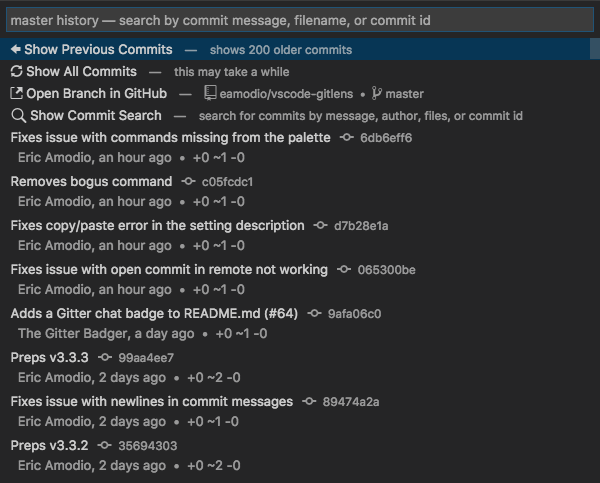
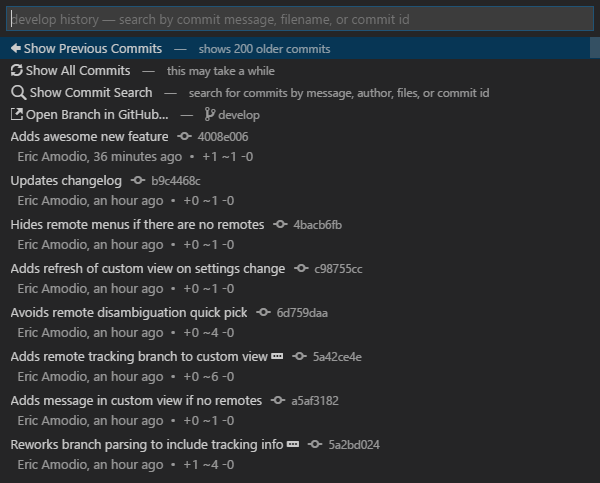
Updates images

Changed region(s): [[0.0, 0.0, 0.99, 0.9938], [0.99, 0.0932, 1.0, 0.1242]]

diff --git a/README.md b/README.md
@@ -10,7 +10,7 @@ GitLens **supercharges** the built-in Visual Studio Code Git capabilities. It he
 GitLens provides an unobtrusive blame annotation at the end of the current line, a status bar item showing the commit information (author and date, by default) of the current line, code lens showing the most recent commit and # of authors of the file and/or code block, and many commands for exploring commits and histories, comparing and navigating revisions, stash access, repository status, and more. GitLens is also [highly customizable](#extension-settings) to meet your specific needs — find code lens intrusive or the current line blame annotation distracting — no problem, it is easy to [turn them off or change how they behave](#extension-settings).
 
 ### Preview — featuring blame annotations, code lens, status bar details, quick pick menus for navigation and exploration, compare with previous, and more
-![GitLens preview](https://raw.githubusercontent.com/eamodio/vscode-gitlens/master/images/gitlens-preview.gif)
+![GitLens preview](https://raw.githubusercontent.com/eamodio/vscode-gitlens/develop/images/gitlens-preview.gif)
 
 ## Features
 
@@ -18,16 +18,16 @@ GitLens provides an unobtrusive blame annotation at the end of the current line,
 
 - Adds an unobtrusive, highly [customizable](#line-blame-annotation-settings) and [themeable](#theme-settings), **Git blame annotation** to the end of the current line ([optional](#line-blame-annotation-settings), on by default)
 
-  ![Line Blame Annotation](https://raw.githubusercontent.com/eamodio/vscode-gitlens/master/images/screenshot-line-blame-annotation.png)
+  ![Line Blame Annotation](https://raw.githubusercontent.com/eamodio/vscode-gitlens/develop/images/screenshot-line-blame-annotation.png)
   - Contains the author, date, and message of the line's most recent commit, by [default](#line-blame-annotation-settings)
   - Adds a `details` hover annotation to the current line annotation, which provides more commit details ([optional](#line-blame-annotation-settings), on by default)
   - Adds a `changes` (diff) hover annotation to the current line annotation, which provides **instant** access to the line's previous version ([optional](#line-blame-annotation-settings), on by default)
 
-    ![Line Blame Annotations](https://raw.githubusercontent.com/eamodio/vscode-gitlens/master/images/screenshot-line-blame-annotations.png)
+    ![Line Blame Annotations](https://raw.githubusercontent.com/eamodio/vscode-gitlens/develop/images/screenshot-line-blame-annotations.png)
 
 - Adds on-demand, beautiful, highly [customizable](#file-blame-annotation-settings) and [themeable](#theme-settings), **Git blame annotations** of the whole file
 
-  ![File Blame Annotation](https://raw.githubusercontent.com/eamodio/vscode-gitlens/master/images/screenshot-file-blame-annotations.png)
+  ![File Blame Annotation](https://raw.githubusercontent.com/eamodio/vscode-gitlens/develop/images/screenshot-file-blame-annotations.png)
   - Choose between `gutter` (default) and `hover` [annotation styles](#file-blame-annotation-settings)
   - Contains the commit message and date, by [default](#file-blame-annotation-settings)
   - Adds a `details` hover annotation to the line's annotation, which provides more commit details ([optional](#file-blame-annotation-settings), on by default)
@@ -37,7 +37,7 @@ GitLens provides an unobtrusive blame annotation at the end of the current line,
 
 - Adds [customizable](#status-bar-settings) **blame information** about the current line to the **status bar**  ([optional](#status-bar-settings), on by default)
 
-  ![Status Bar Blame](https://raw.githubusercontent.com/eamodio/vscode-gitlens/master/images/screenshot-status-bar.png)
+  ![Status Bar Blame](https://raw.githubusercontent.com/eamodio/vscode-gitlens/develop/images/screenshot-status-bar.png)
   - Contains the commit author and date, by [default](#status-bar-settings)
   - Clicking the status bar item will, by [default](#status-bar-settings), show a **commit details quick pick menu** with commands for comparing, navigating and exploring commits, and more
   - Provides [customizable](#status-bar-settings) click behavior — choose between one of the following
@@ -70,7 +70,7 @@ GitLens provides an unobtrusive blame annotation at the end of the current line,
 
 - Adds **code lens** to the top of the file and on code blocks ([optional](#code-lens-settings), on by default)
 
-  ![Git Code Lens](https://raw.githubusercontent.com/eamodio/vscode-gitlens/master/images/screenshot-code-lens.png)
+  ![Git Code Lens](https://raw.githubusercontent.com/eamodio/vscode-gitlens/develop/images/screenshot-code-lens.png)
   - **Recent Change** — author and date of the most recent commit for the file or code block
     - Clicking the code lens will, by [default](#code-lens-settings), show a **commit file details quick pick menu** with commands for comparing, navigating and exploring commits, and more
   - **Authors** — number of authors of the file or code block and the most prominent author (if there is more than one)
@@ -115,7 +115,7 @@ GitLens provides an unobtrusive blame annotation at the end of the current line,
 
   - `Repository View` - provides a full repository explorer
 
-    ![GitLens Repository view](https://raw.githubusercontent.com/eamodio/vscode-gitlens/master/images/screenshot-git-custom-view-repository.png)
+    ![GitLens Repository view](https://raw.githubusercontent.com/eamodio/vscode-gitlens/develop/images/screenshot-git-custom-view-repository.png)
 
     - `Repository Status` node — provides the status of the repository
       - Provides the name of the current branch, its upstream tracking branch (if available), and its upstream status (if available)
@@ -153,7 +153,7 @@ GitLens provides an unobtrusive blame annotation at the end of the current line,
 
   - `History View` - provides the revision history of the active file
 
-    ![GitLens History view](https://raw.githubusercontent.com/eamodio/vscode-gitlens/master/images/screenshot-git-custom-view-history.png)
+    ![GitLens History view](https://raw.githubusercontent.com/eamodio/vscode-gitlens/develop/images/screenshot-git-custom-view-history.png)
 
     - Automatically updates to track the active editor
     - Provides a context menu with `Open File`, `Open File in Remote`, and `Refresh` commands
@@ -173,7 +173,7 @@ GitLens provides an unobtrusive blame annotation at the end of the current line,
 
 - Adds a `Show Current Branch History` command (`gitlens.showQuickRepoHistory`) with a shortcut of `shift+alt+h` to show a paged **branch history quick pick menu** of the current branch for exploring its commit history
 
-  ![Branch History Quick Pick Menu](https://raw.githubusercontent.com/eamodio/vscode-gitlens/master/images/screenshot-branch-history.png)
+  ![Branch History Quick Pick Menu](https://raw.githubusercontent.com/eamodio/vscode-gitlens/develop/images/screenshot-branch-history.png)
 
   - Provides entries to `Show Commit Search` and `Open Branch in <remote-service>` when available
   - Navigate back to the previous quick pick menu via `alt+left arrow`, if available
@@ -184,7 +184,7 @@ GitLens provides an unobtrusive blame annotation at the end of the current line,
 
 - Adds a `Show File History` command (`gitlens.showQuickFileHistory`) to show a paged **file history quick pick menu** of the active file for exploring its commit history
 
-  ![File History Quick Pick Menu](https://raw.githubusercontent.com/eamodio/vscode-gitlens/master/images/screenshot-file-history.png)
+  ![File History Quick Pick Menu](https://raw.githubusercontent.com/eamodio/vscode-gitlens/develop/images/screenshot-file-history.png)
 
   - Provides entries to `Show Branch History` and `Open File in <remote-service>` when available
   - Navigate back to the previous quick pick menu via `alt+left arrow`, if available
@@ -192,7 +192,7 @@ GitLens provides an unobtrusive blame annotation at the end of the current line,
 
 - Adds a `Show Commit Details` command (`gitlens.showQuickCommitDetails`) to show a **commit details quick pick menu** of the most recent commit of the active file
 
-  ![Commit Details Quick Pick Menu](https://raw.githubusercontent.com/eamodio/vscode-gitlens/master/images/screenshot-commit-details.png)
+  ![Commit Details Quick Pick Menu](https://raw.githubusercontent.com/eamodio/vscode-gitlens/develop/images/screenshot-commit-details.png)
 
   - Quickly see the set of files changed in the commit, complete with status indicators for adds, changes, renames, and deletes
   - Provides entries to `Copy to Clipboard`, `Directory Compare`, `Open Changed Files`, `Open File in <remote-service>` when available, and more
@@ -202,7 +202,7 @@ GitLens provides an unobtrusive blame annotation at the end of the current line,
 
 - Adds a `Show Commit File Details` command (`gitlens.showQuickCommitFileDetails`) with a shortcut of `alt+c` to show a **file commit details quick pick menu** of the most recent commit of the active file
 
-  ![Commit File Details Quick Pick Menu](https://raw.githubusercontent.com/eamodio/vscode-gitlens/master/images/screenshot-commit-file-details.png)
+  ![Commit File Details Quick Pick Menu](https://raw.githubusercontent.com/eamodio/vscode-gitlens/develop/images/screenshot-commit-file-details.png)
 
   - Provides entries to `Show Commit Details`, `Show File History`, `Compare File with...`, `Copy to Clipboard`, `Open File`, `Open File in <remote-service>` when available, and more
   - Navigate back to the previous quick pick menu via `alt+left arrow`, if available
@@ -210,7 +210,7 @@ GitLens provides an unobtrusive blame annotation at the end of the current line,
 
 - Adds a `Show Repository Status` command (`gitlens.showQuickRepoStatus`) with a shortcut of `alt+s` to show a **repository status quick pick menu** for visualizing the current repository status
 
-  ![Repository Status Quick Pick Menu](https://raw.githubusercontent.com/eamodio/vscode-gitlens/master/images/screenshot-repo-status.png)
+  ![Repository Status Quick Pick Menu](https://raw.githubusercontent.com/eamodio/vscode-gitlens/develop/images/screenshot-repo-status.png)
 
   - Quickly see upstream status (if an Git upstream is configured) — complete with ahead and behind information
     - If you are ahead of the upstream, an entry will be shown with the number of commits ahead. Choosing it will show a limited **branch history quick pick menu** containing just the commits ahead of the upstream
@@ -222,14 +222,14 @@ GitLens provides an unobtrusive blame annotation at the end of the current line,
 
 - Adds a `Show Stashed Changes` command (`gitlens.showQuickStashList`) to show a **stashed changes quick pick menu** for exploring your repository stash history
 
-  ![Stashed Changes Quick Pick Menu](https://raw.githubusercontent.com/eamodio/vscode-gitlens/master/images/screenshot-stash-list.png)
+  ![Stashed Changes Quick Pick Menu](https://raw.githubusercontent.com/eamodio/vscode-gitlens/develop/images/screenshot-stash-list.png)
 
   - Provides entries to `Stash Changes`
   - Navigate back to the previous quick pick menu via `alt+left arrow`, if available
 
   - Choosing a stash entry shows a **stash details quick pick menu** which is very similar to the **commit details quick pick menu** above
 
-    ![Stash Details Quick Pick Menu](https://raw.githubusercontent.com/eamodio/vscode-gitlens/master/images/screenshot-stash-details.png)
+    ![Stash Details Quick Pick Menu](https://raw.githubusercontent.com/eamodio/vscode-gitlens/develop/images/screenshot-stash-details.png)
 
     - Quickly see the set of files changed in the stash, complete with status indicators for adds, changes, renames, and deletes
     - Provides entries to `Copy Message to Clipboard`, `Directory Compare`, and `Open Changed Files`

diff --git a/CHANGELOG.md b/CHANGELOG.md
@@ -10,7 +10,7 @@ The format is based on [Keep a Changelog](http://keepachangelog.com/) and this p
 
   - `Repository View` - provides a full repository explorer
 
-    ![GitLens Repository view](https://raw.githubusercontent.com/eamodio/vscode-gitlens/master/images/screenshot-git-custom-view-repository.png)
+    ![GitLens Repository view](https://raw.githubusercontent.com/eamodio/vscode-gitlens/develop/images/screenshot-git-custom-view-repository.png)
 
     - `Repository Status` node — provides the status of the repository
       - Provides the name of the current branch, its upstream tracking branch (if available), and its upstream status (if available)
@@ -48,7 +48,7 @@ The format is based on [Keep a Changelog](http://keepachangelog.com/) and this p
 
   - `History View` - provides the revision history of the active file
 
-    ![GitLens History view](https://raw.githubusercontent.com/eamodio/vscode-gitlens/master/images/screenshot-git-custom-view-history.png)
+    ![GitLens History view](https://raw.githubusercontent.com/eamodio/vscode-gitlens/develop/images/screenshot-git-custom-view-history.png)
 
     - Automatically updates to track the active editor
     - Provides a context menu with `Open File`, `Open File in Remote`, and `Refresh` commands
@@ -147,7 +147,7 @@ The format is based on [Keep a Changelog](http://keepachangelog.com/) and this p
 ## Added
 - Adds `Git Stashes` custom view to the Explorer activity
 
-  ![Git Stashes view](https://raw.githubusercontent.com/eamodio/vscode-gitlens/master/images/screenshot-git-stashes.png)
+  ![Git Stashes view](https://raw.githubusercontent.com/eamodio/vscode-gitlens/develop/images/screenshot-git-stashes.png)
 
   - Shows all of the stashed changes in the repository
   - Provides toolbar buttons to `Stash Changes` and `Refresh`
